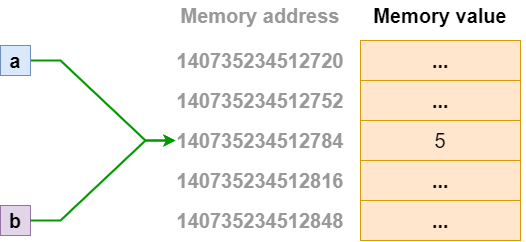
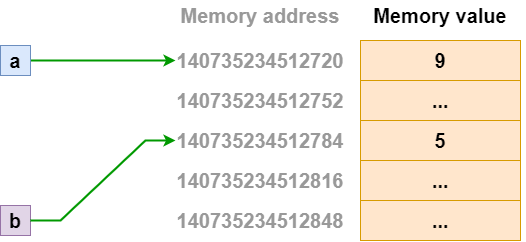
GitBook: [#150] No subject

diff --git a/data-structure-and-basic-operations/variability-and-address.md b/data-structure-and-basic-operations/variability-and-address.md
@@ -47,7 +47,7 @@ If I copy a variable in python, for example, as shown below:
 
 You will find that the memory address units pointed to by **a** and **b** are the same! That is to say, when I tried to copy a variable, I didn't really clone the variable, but: I created another pointer points to the memory, and the two pointers point to the same memory space.
 
-![Shared memory](<../.gitbook/assets/image (2).png>)
+![Shared memory](<../.gitbook/assets/image (2) (1).png>)
 
 This means that when I try to change the content of **a**, the content of **b** will also change<mark style="color:red;">**???**</mark>
 
@@ -61,11 +61,7 @@ If I change the value of **a**, but the address of **a** does not change, the va
 
 But if I change the value of **a**, but **a** points to another address, then **b** still points to the original address, and the values of **a** and **b** are different.
 
-
-
-
-
-
+![Scenario 2](<../.gitbook/assets/image (2).png>)
 
 
 
